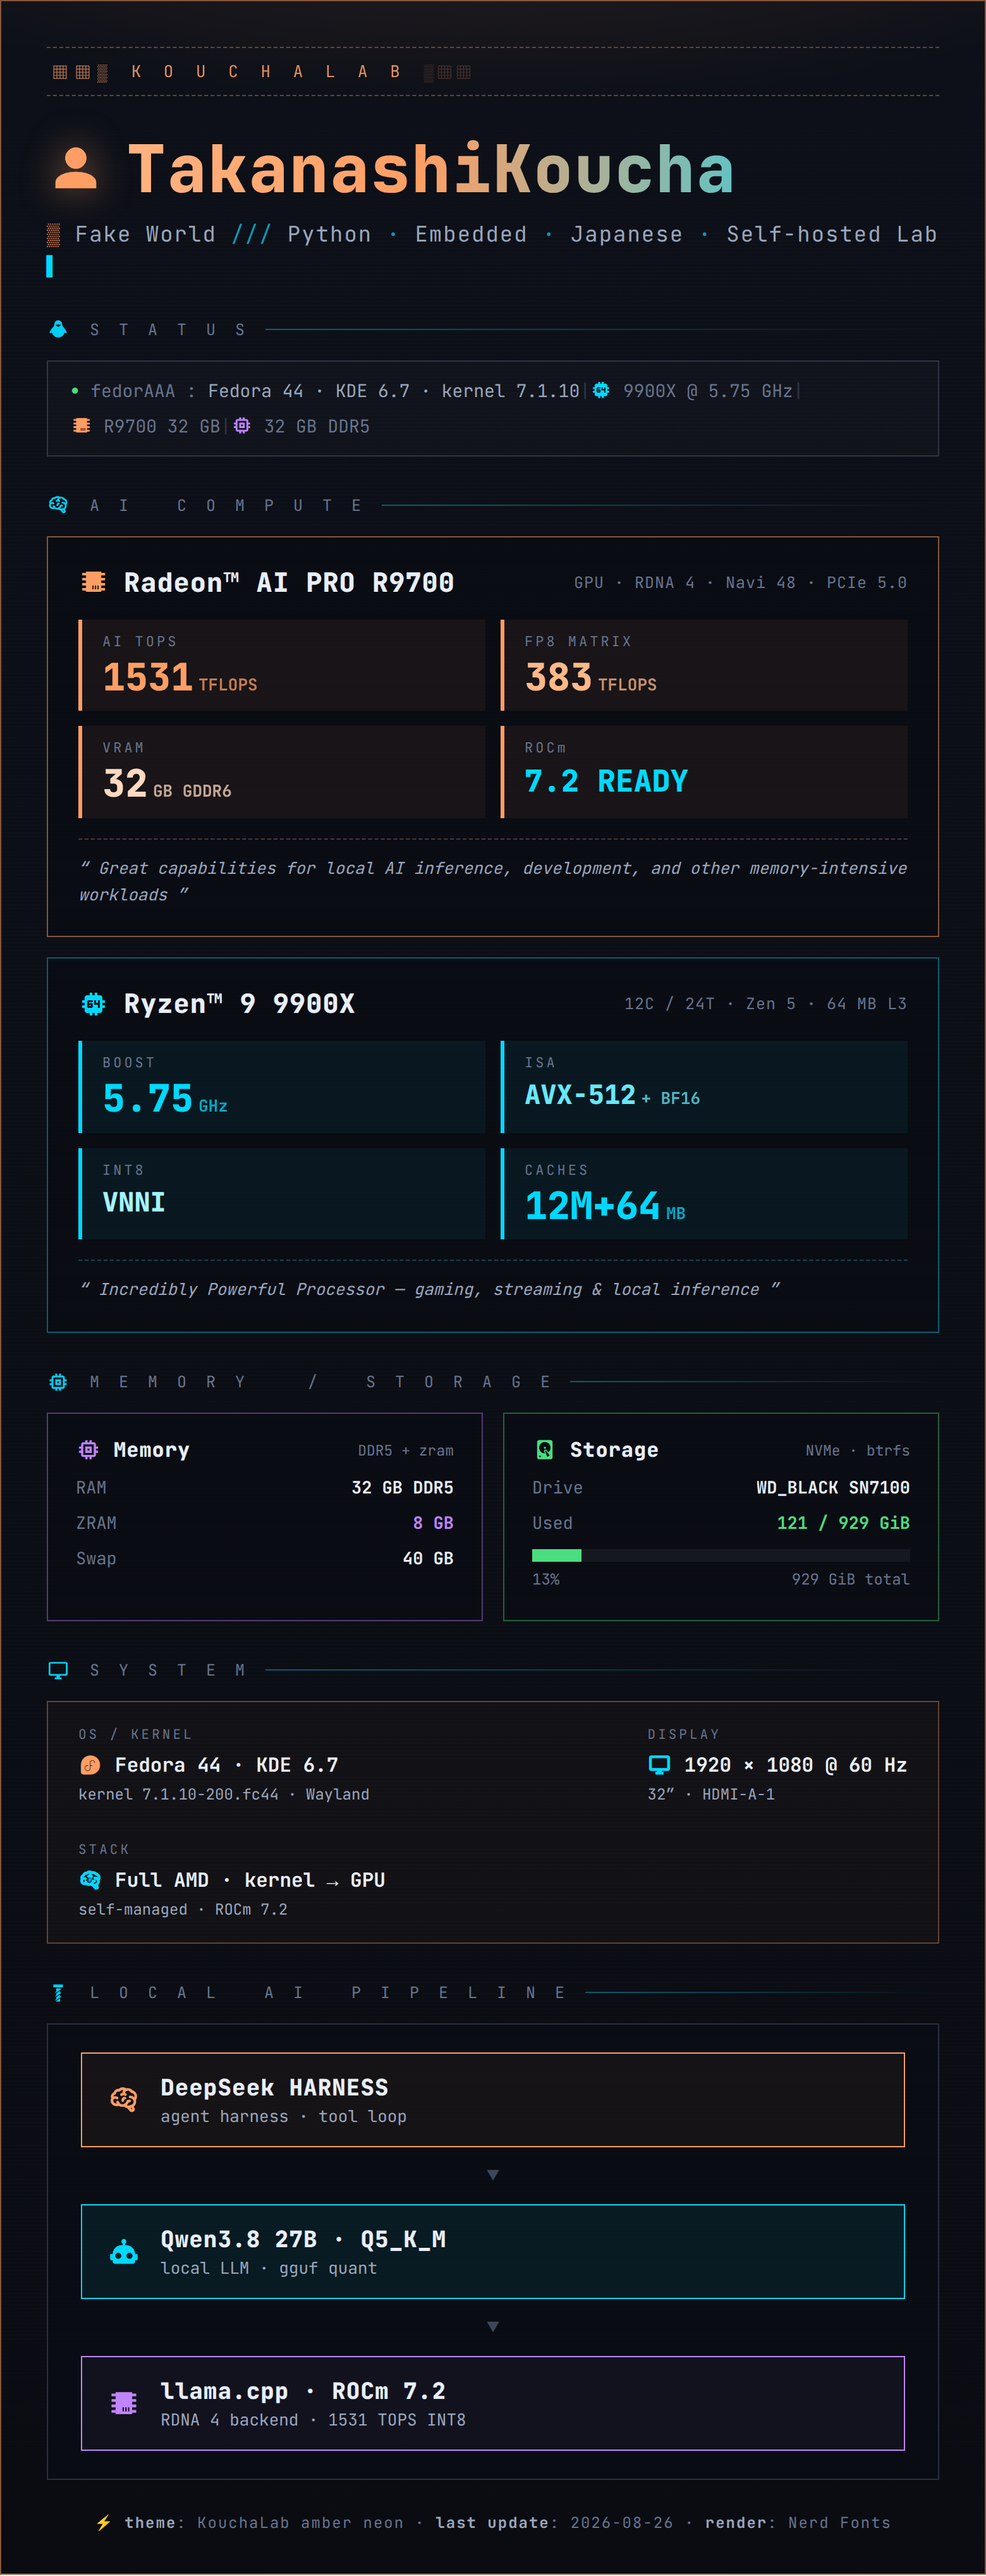
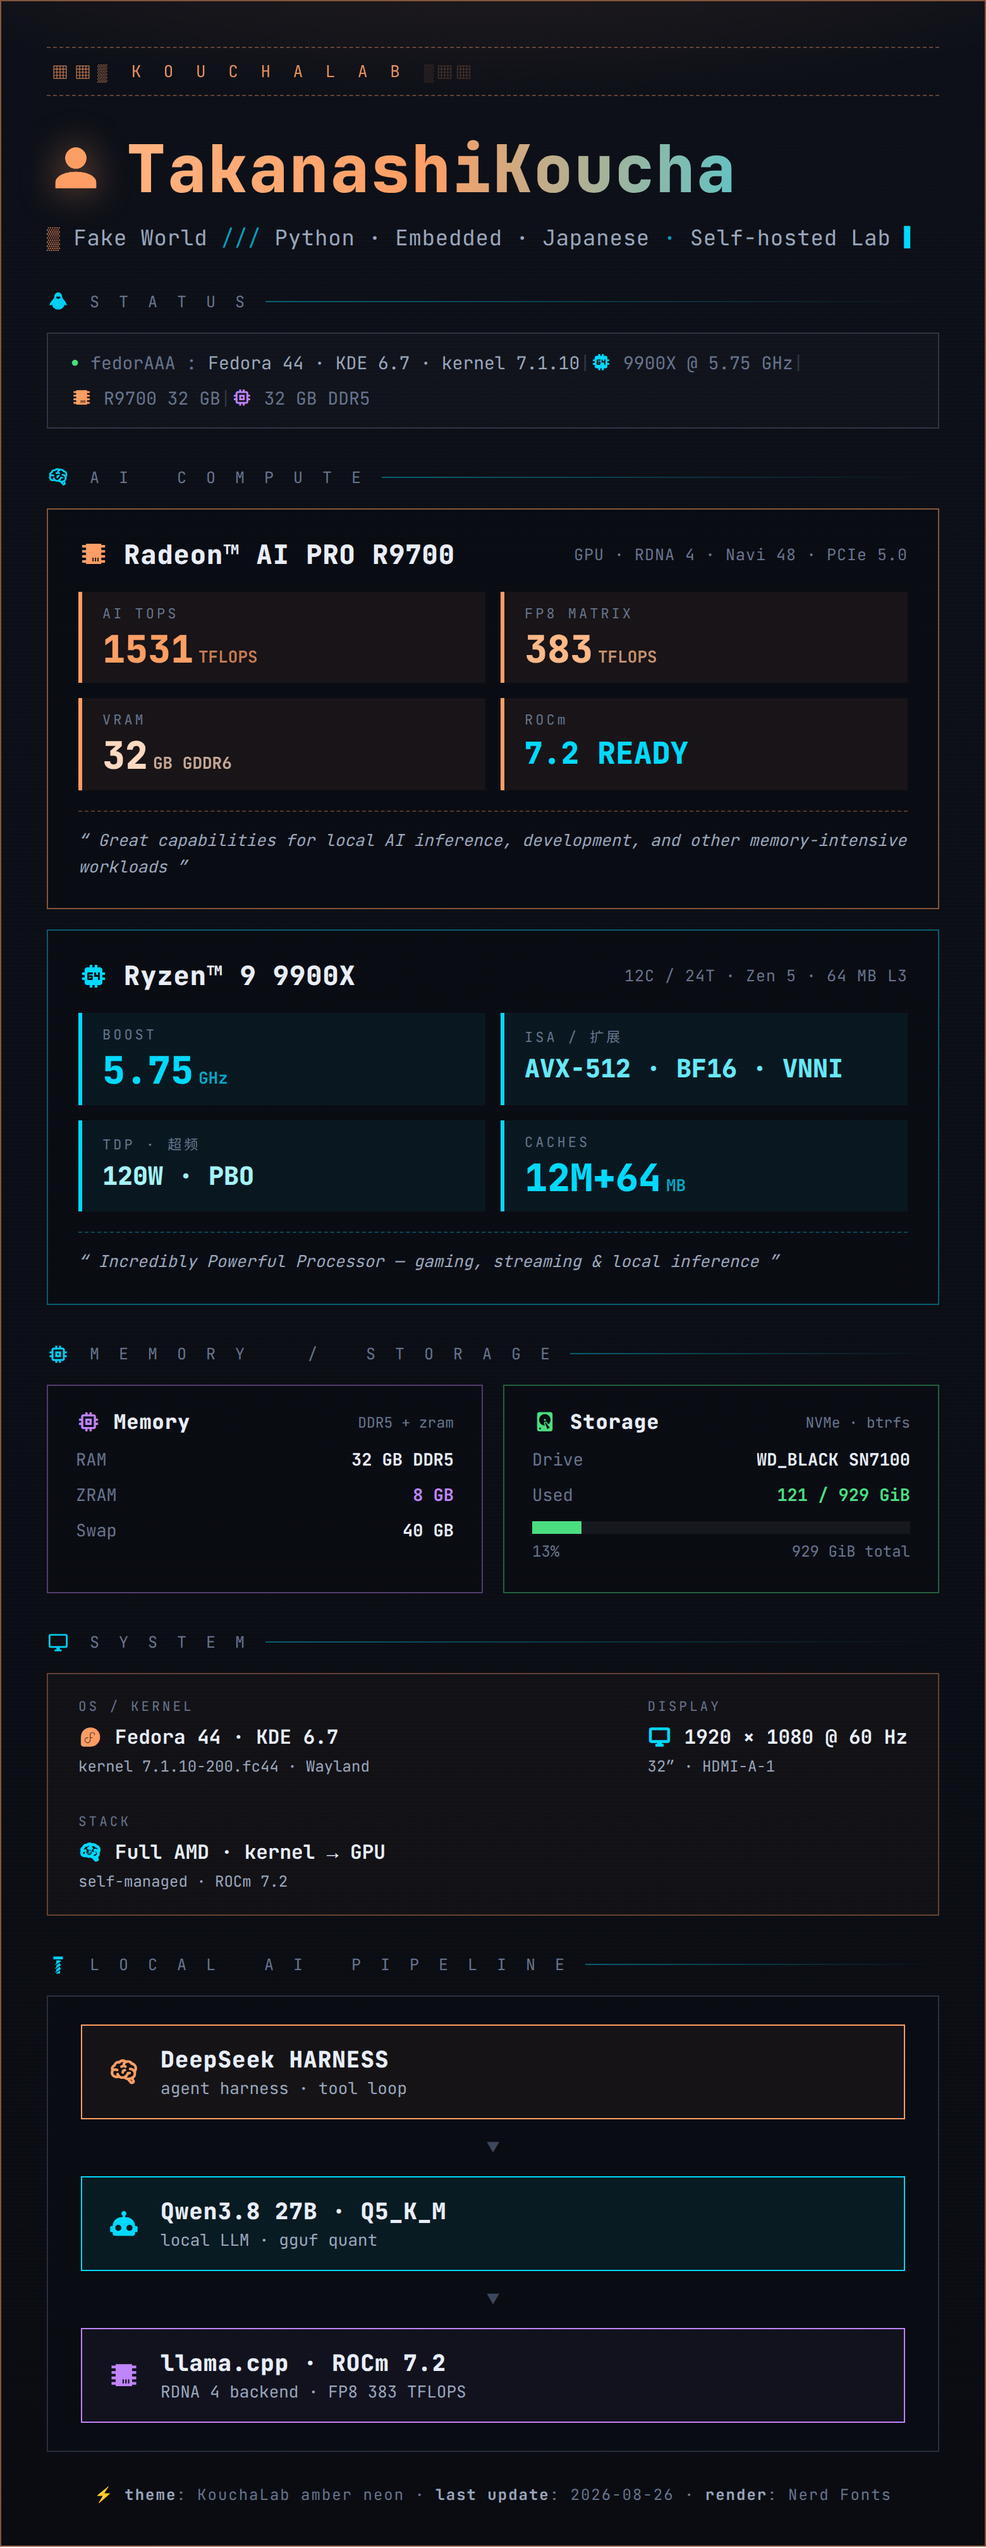
Single-image profile: drop typing image + badges, 9900X blocks = freq/ISA/caches/TDP+PBO, llama.cpp FP8, tagline fits one line

diff --git a/README.md b/README.md
@@ -1,22 +1,5 @@
 <div align="center">
 
-![TakanashiKoucha — fake_world // python · embedded · japanese · self-hosted](images/typing.png)
-
-</div>
-
-<div align="center">
-
 ![KouchaLab — system config & local AI stack](images/config.png)
-
-</div>
-
-<br>
-
-<div align="center">
-
-[![GitHub stars](https://img.shields.io/github/stars/Takanashikoucha/Takanashikoucha?label=stars&labelColor=0a0c12&color=ffb887&style=flat-square&logo=github)](https://github.com/Takanashikoucha/Takanashikoucha)
-[![GitHub repos](https://img.shields.io/github/repositories/Takanashikoucha?label=repos&labelColor=0a0c12&color=4ade80&style=flat-square&logo=github)](https://github.com/Takanashikoucha?tab=repositories)
-[![GitHub followers](https://img.shields.io/github/followers/Takanashikoucha?label=followers&labelColor=0a0c12&color=ff9e64&style=flat-square&logo=github)](https://github.com/Takanashikoucha?tab=followers)
-[![Blog 红茶馆](https://img.shields.io/badge/blog-%E7%BA%A2%E8%8C%B6%E9%A6%86-c084fc?labelColor=0a0c12&style=flat-square)](https://takanashikoucha.github.io/)
 
 </div>
